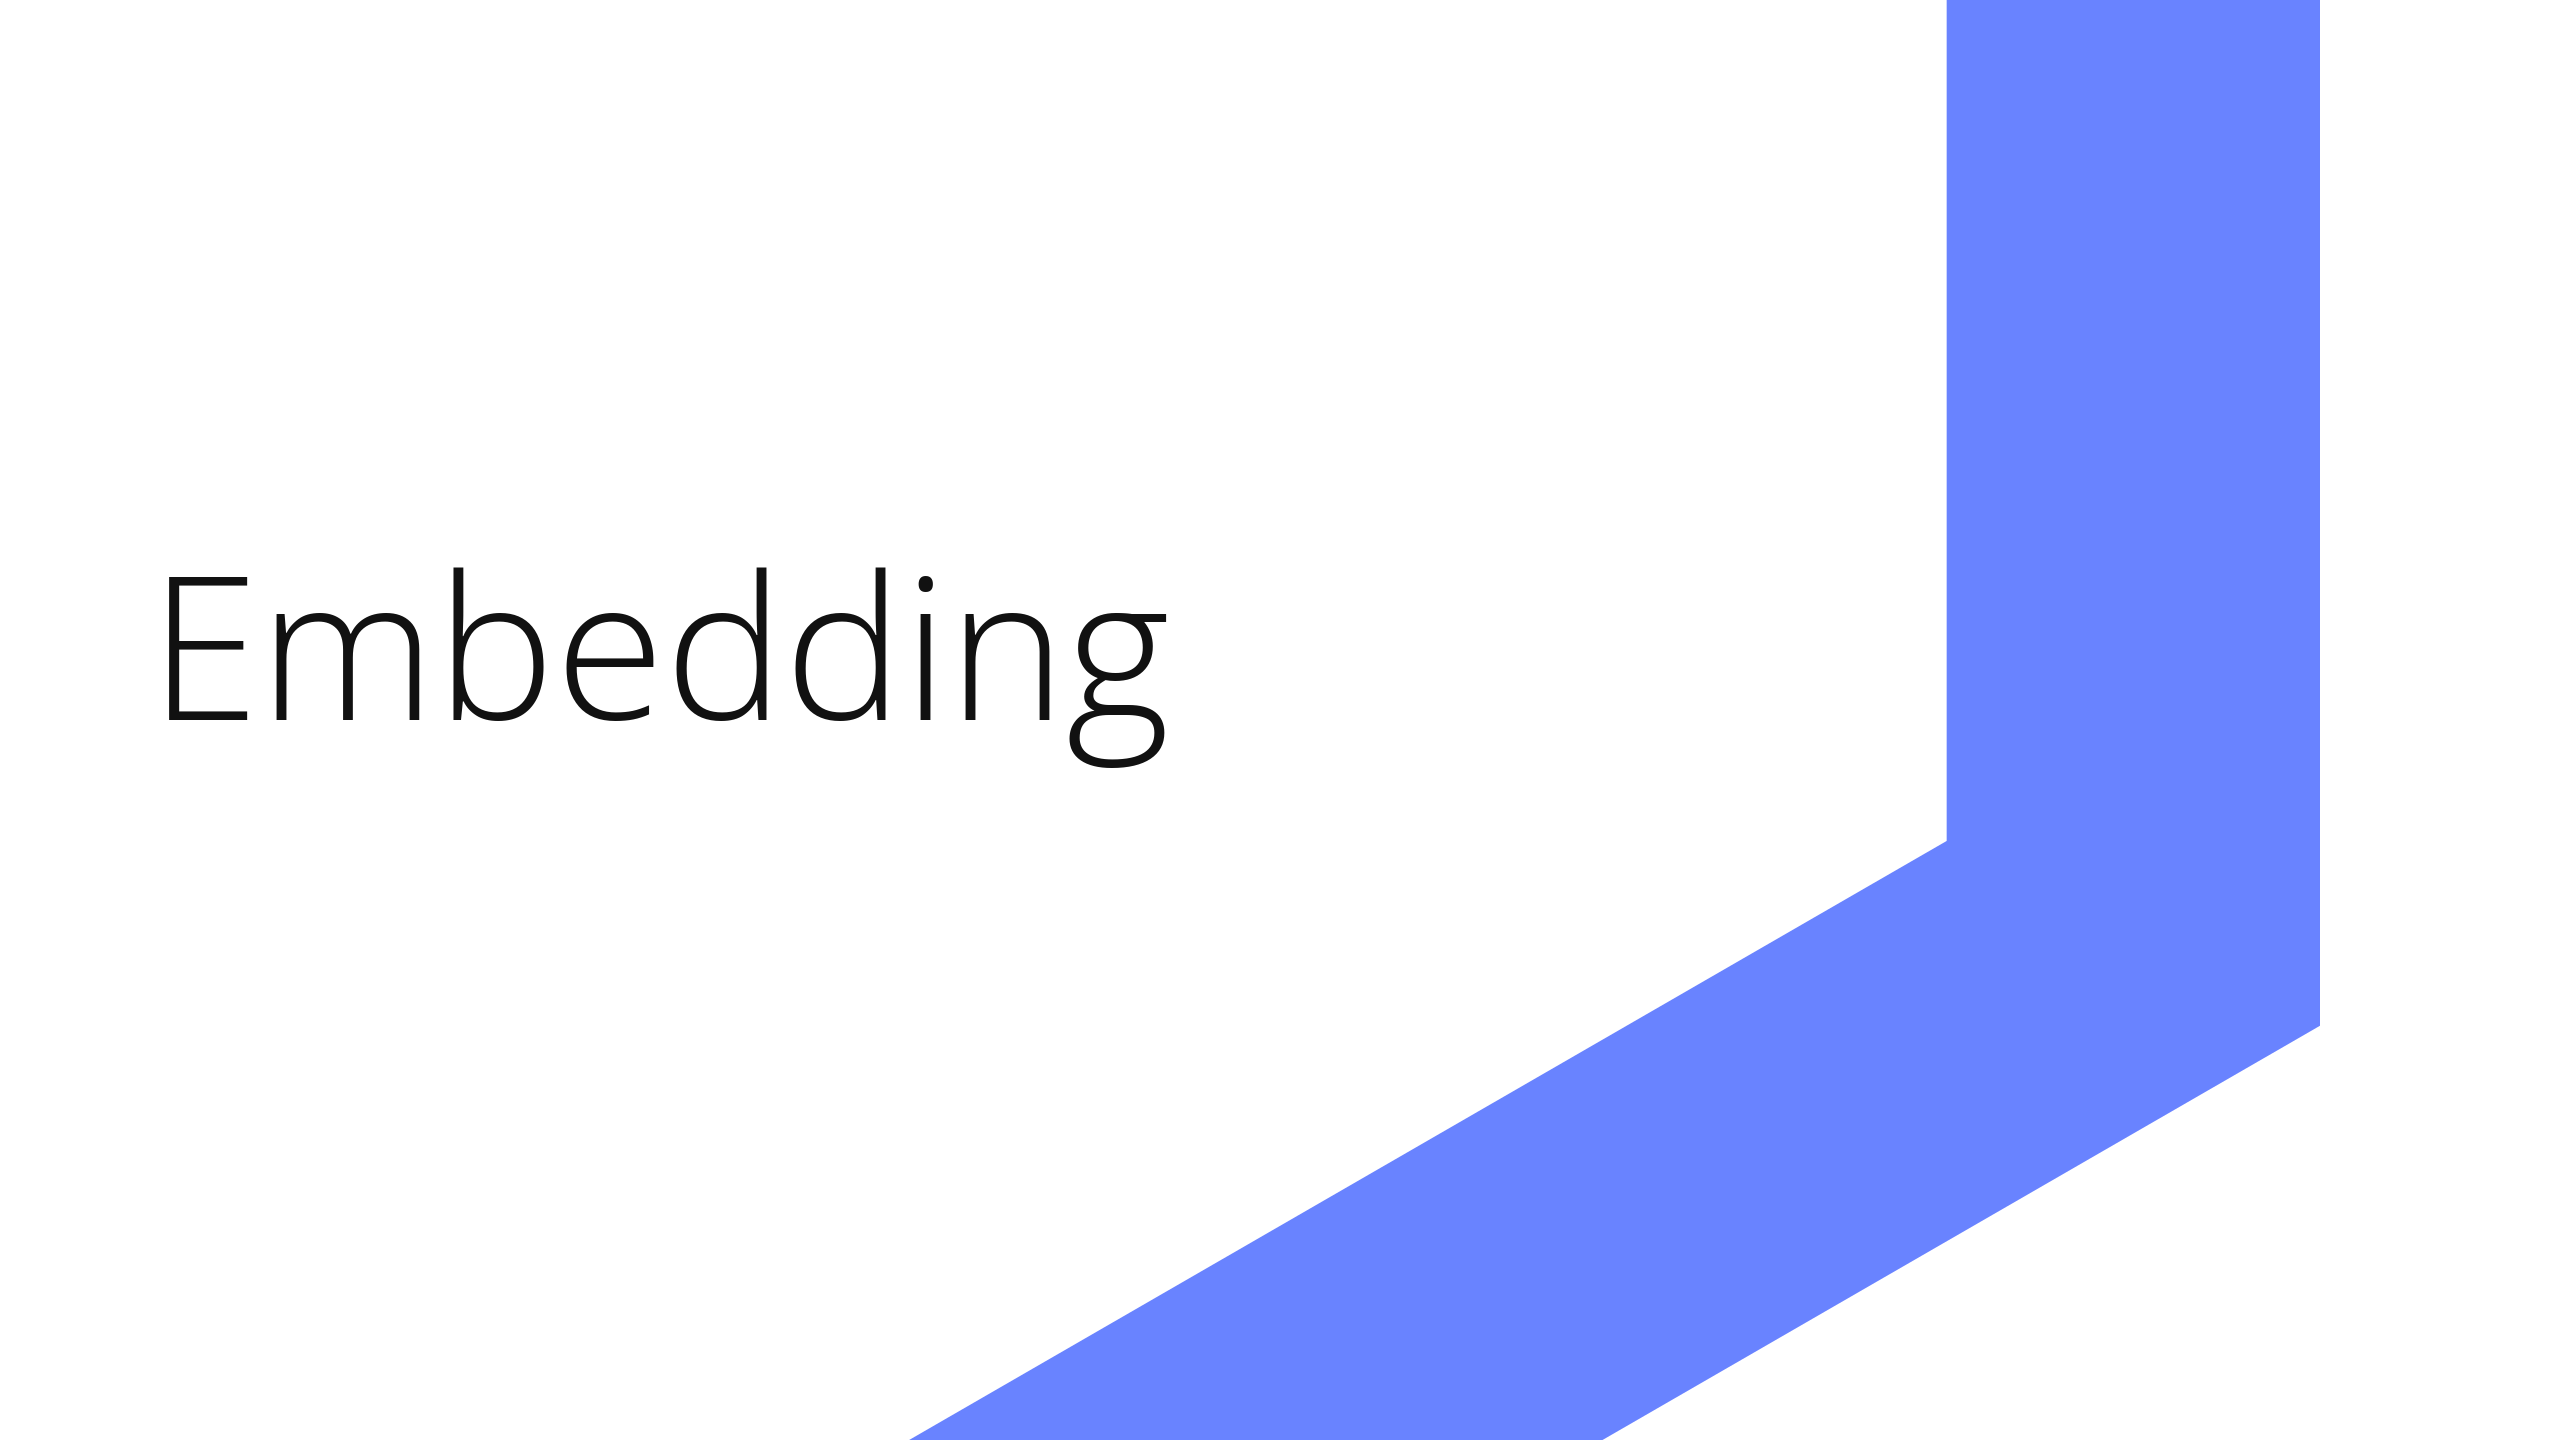
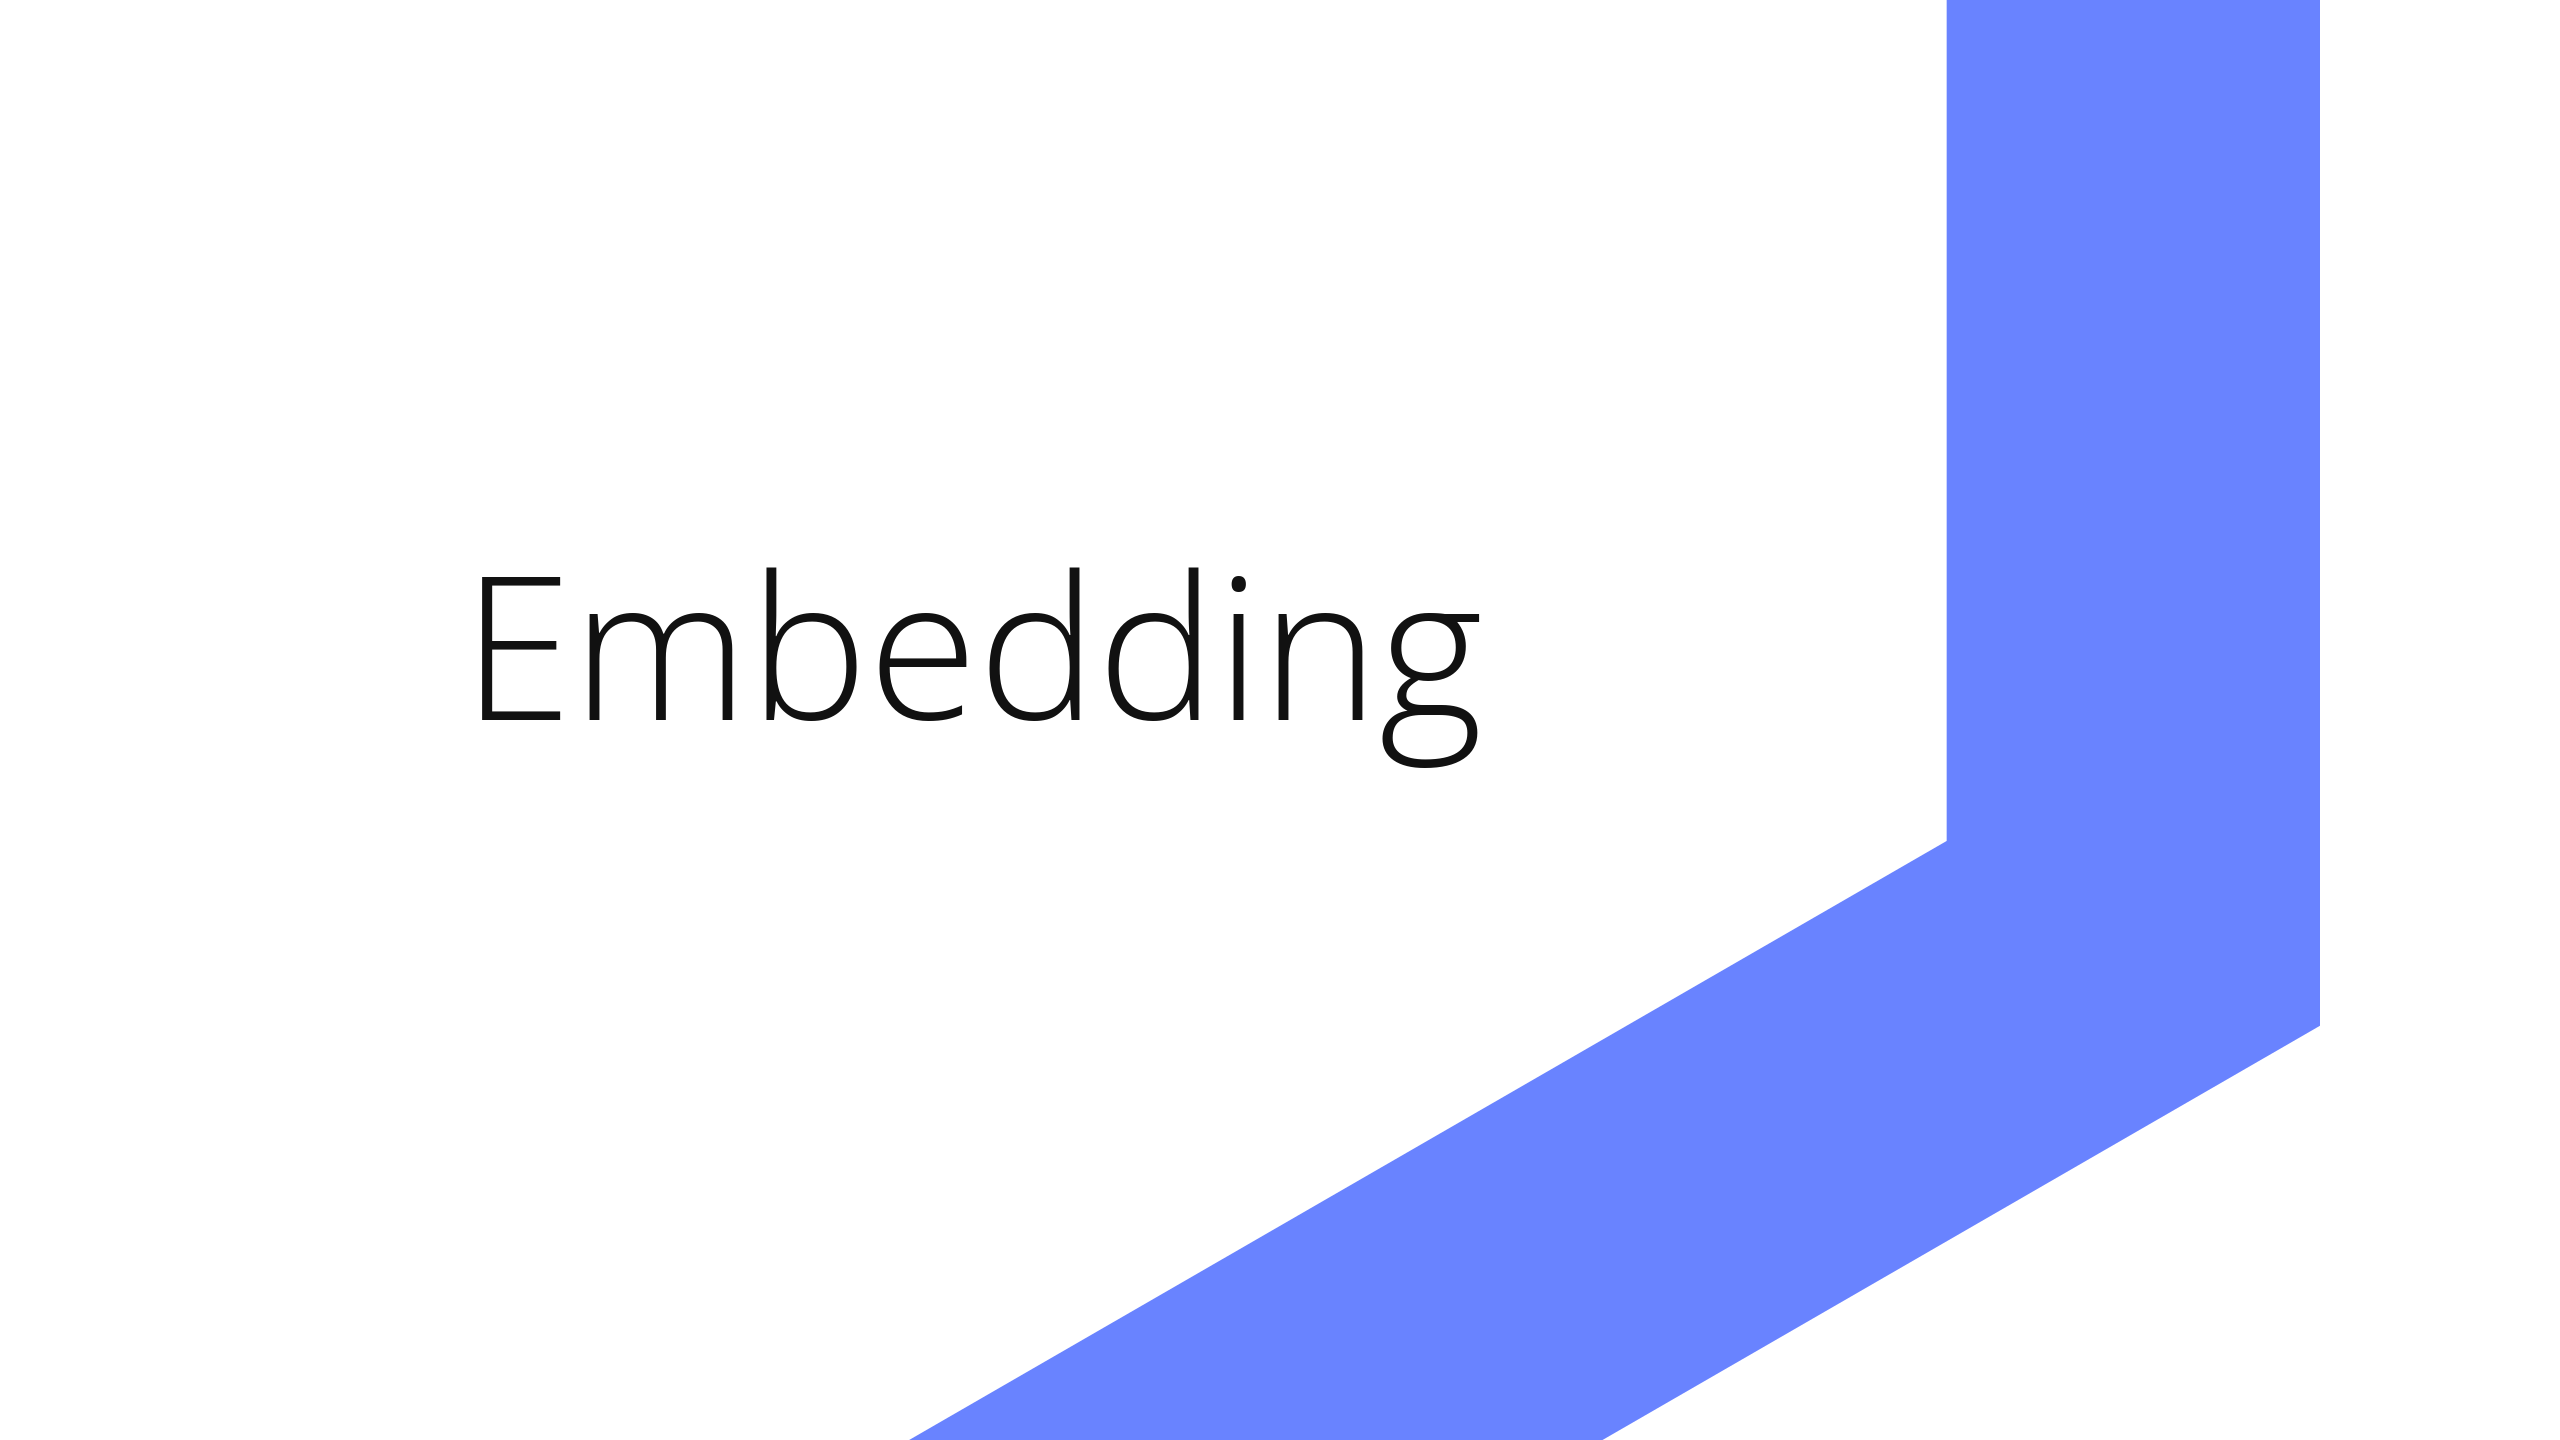
Section openers: centre the title on the panel left of the hexagon leg
The title on slides 4, 11, 15 and 21 is centred between the slide's left
edge and the vertical leg's left edge (x = 1460 of 1920, so the centre is
730) instead of sitting at the deck's 120 px left margin. hex_corner()
returns that edge so the centre follows the mark if it moves; the optional
eyebrow/claim/detail lines centre with it. text() now honours a middle
anchor on tracked text (the eyebrow path).

Cross-ownership: build_deck.py is Rimuru's. Slides that only changed by
cross-host glyph antialiasing were restored from HEAD.

Changed region(s): [[0.0625, 0.375, 0.5938, 0.5312]]

diff --git a/build_deck.py b/build_deck.py
@@ -89,6 +89,8 @@ def text(d, xy, s, f, fill=INK, anchor='la', tracking=0):
     t = P(tracking)
     if anchor[0] == 'r':
         x -= text_len(s, f) + t * (len(s) - 1)
+    if anchor[0] == 'm':
+        x -= (text_len(s, f) + t * (len(s) - 1)) / 2
     for c in s:
         cf = arrow_font(f) if c == ARROW else f
         d.text((x, y), c, font=cf, fill=fill, anchor='l' + anchor[1]); x += cf.getlength(c) + t
@@ -152,6 +154,7 @@ def hex_corner(im, cx=1600, cy=700, w_diag=260, w_vert=280, color=LOGO_BLUE):
            f'<polygon points="{" ".join(f"{x:.1f},{y:.1f}" for x, y in pts)}" fill="{color}"/></svg>')
     ov = Image.open(io.BytesIO(cairosvg.svg2png(bytestring=svg.encode(), output_width=W))).convert('RGBA')
     im.paste(ov, (0, 0), ov)
+    return cx - w_vert / 2                                    # the vertical leg's left edge: the white panel is [0, this]
 
 
 def ink_bbox(im, pad=12):
@@ -227,11 +230,12 @@ def render(slide):
         d.line([(P(960), P(420)), (P(960), P(900))], fill=RULE, width=P(2))
         text(d, (120, 1010), slide['footnote'], font('Regular', 26), MUTED, 'ls')
     elif k == 'section':
-        hex_corner(im)                                          # the mark first, so the title paints over it if they ever meet
-        if slide['eyebrow']: text(d, (120, 300), slide['eyebrow'].upper(), font('SemiBold', 22), MUTED, tracking=3)
-        text(d, (112, 540), slide['word'], font('Light', 150), INK, 'ls')
-        if slide['claim']: text(d, (120, 650), slide['claim'], font('SemiBold', 44), ACCENT)
-        if slide['detail']: text(d, (120, 725), slide['detail'], font('Regular', 34), GREY)
+        leg = hex_corner(im)                                    # the mark first; the title is centred on the white panel it leaves
+        mid = leg / 2
+        if slide['eyebrow']: text(d, (mid, 300), slide['eyebrow'].upper(), font('SemiBold', 22), MUTED, 'ms', tracking=3)
+        text(d, (mid, 540), slide['word'], font('Light', 150), INK, 'ms')
+        if slide['claim']: text(d, (mid, 650), slide['claim'], font('SemiBold', 44), ACCENT, 'ma')
+        if slide['detail']: text(d, (mid, 725), slide['detail'], font('Regular', 34), GREY, 'ma')
     elif k == 'figure':
         if slide['title']: header(d, slide['title'])
         place_figure(im, slide['svg'], slide['box'], slide['trim'])
